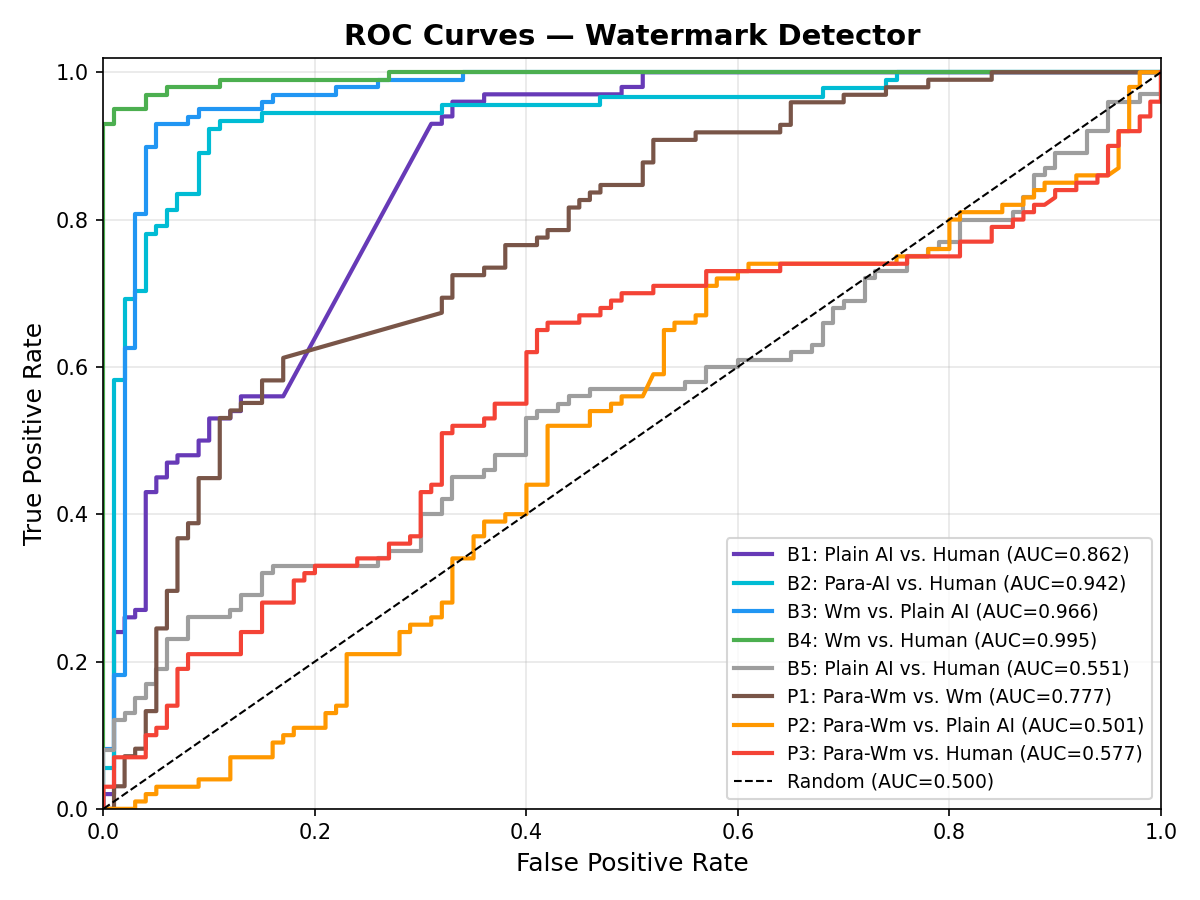
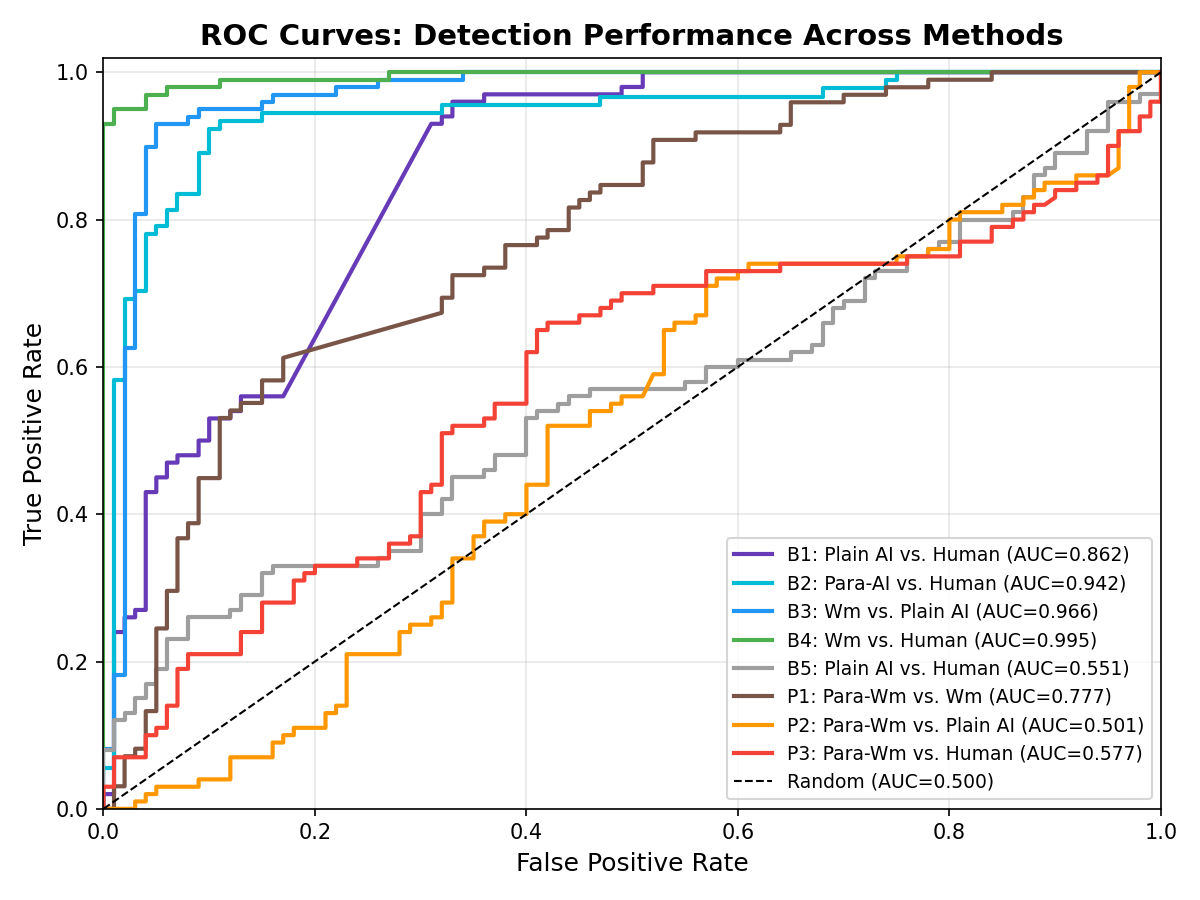
Fix plot titles

Changed region(s): [[0.1542, 0.0, 0.8942, 0.0622]]

diff --git a/generate_plots.py b/generate_plots.py
@@ -14,7 +14,6 @@ from sklearn.metrics import roc_curve, roc_auc_score
 results_dir = "experiment_results"
 plots_dir = "plots"
 
-# Human-readable labels for each experiment file
 EXPERIMENT_LABELS = {
     "baseline_1":     "Baseline 1\nPlain AI vs. Human (AI Detector)",
     "baseline_2":     "Baseline 2\nParaphrased AI vs. Human (AI Detector)",
@@ -37,7 +36,6 @@ SHORT_LABELS = {
     "paraphrasing_3": "P3: Para-Wm vs. Human",
 }
 
-# Colour per experiment — consistent across all plots
 COLORS = {
     "baseline_1":     "#673AB7",
     "baseline_2":     "#00BCD4",
@@ -49,7 +47,6 @@ COLORS = {
     "paraphrasing_3": "#F44336",
 }
 
-# Display order
 ORDER = [
     "baseline_1", "baseline_2", "baseline_3",
     "baseline_4", "baseline_5",
@@ -92,7 +89,10 @@ def plot_roc_curves(data, plots_dir):
     ax.plot([0, 1], [0, 1], "k--", linewidth=1, label="Random (AUC=0.500)")
     ax.set_xlabel("False Positive Rate", fontsize=12)
     ax.set_ylabel("True Positive Rate", fontsize=12)
-    ax.set_title("ROC Curves — Watermark Detector", fontsize=14, fontweight="bold")
+
+    ax.set_title("ROC Curves: Detection Performance Across Methods",
+                 fontsize=14, fontweight="bold")
+
     ax.legend(fontsize=9, loc="lower right")
     ax.set_xlim(0, 1)
     ax.set_ylim(0, 1.02)
@@ -108,6 +108,7 @@ def plot_roc_curves(data, plots_dir):
 def plot_auroc_bar(data, plots_dir):
     keys = [k for k in ORDER if k in data]
     aurocs = []
+
     for key in keys:
         _, _, auroc, _ = compute_metrics(data[key])
         aurocs.append(auroc)
@@ -126,7 +127,10 @@ def plot_auroc_bar(data, plots_dir):
     ax.set_xticklabels([SHORT_LABELS[k] for k in keys], fontsize=8)
     ax.set_ylabel("AUROC", fontsize=12)
     ax.set_ylim(0, 1.12)
-    ax.set_title("AUROC by Experiment — Watermark Detector", fontsize=14, fontweight="bold")
+
+    ax.set_title("AUROC by Experiment (DetectGPT + Watermarking)",
+                 fontsize=14, fontweight="bold")
+
     ax.legend(fontsize=10)
     ax.grid(axis="y", alpha=0.3)
     fig.tight_layout()
@@ -156,20 +160,29 @@ def plot_score_distributions(data, plots_dir):
         scores_pos = y_score[y_true == 1]
 
         bins = np.linspace(y_score.min(), y_score.max(), 40)
-        ax.hist(scores_neg, bins=bins, alpha=0.6, color="#9E9E9E", label="Negative class", density=True)
-        ax.hist(scores_pos, bins=bins, alpha=0.6, color=COLORS[key], label="Positive class", density=True)
+
+        ax.hist(scores_neg, bins=bins, alpha=0.6, color="#9E9E9E",
+                label="Negative class", density=True)
+        ax.hist(scores_pos, bins=bins, alpha=0.6, color=COLORS[key],
+                label="Positive class", density=True)
 
         _, _, auroc, _ = compute_metrics(entry)
-        ax.set_title(f"{SHORT_LABELS[key]}\n(AUC={auroc:.3f})", fontsize=9, fontweight="bold")
-        ax.set_xlabel("Watermark Z-Score", fontsize=9)
+
+        ax.set_title(f"{SHORT_LABELS[key]}\n(AUC={auroc:.3f})",
+                     fontsize=9, fontweight="bold")
+
+        ax.set_xlabel("Detection Score", fontsize=9)
         ax.set_ylabel("Density", fontsize=9)
+
         ax.legend(fontsize=8)
         ax.grid(True, alpha=0.3)
 
     for j in range(len(keys), len(axes)):
         axes[j].set_visible(False)
 
-    fig.suptitle("Score Distributions — Watermark Detector", fontsize=14, fontweight="bold", y=1.01)
+    fig.suptitle("Score Distributions Across Detection Methods",
+                 fontsize=14, fontweight="bold", y=1.01)
+
     fig.tight_layout()
     path = os.path.join(plots_dir, "score_distributions.png")
     fig.savefig(path, dpi=150, bbox_inches="tight")
@@ -181,6 +194,7 @@ def plot_score_distributions(data, plots_dir):
 def plot_fpr_bar(data, plots_dir):
     keys = [k for k in ORDER if k in data]
     fprs = []
+
     for key in keys:
         _, _, _, fpr_at_95 = compute_metrics(data[key])
         fprs.append(fpr_at_95)
@@ -192,14 +206,20 @@ def plot_fpr_bar(data, plots_dir):
 
     for bar, val in zip(bars, fprs):
         ax.text(bar.get_x() + bar.get_width() / 2, bar.get_height() + 0.01,
-                f"{val:.3f}", ha="center", va="bottom", fontsize=10, fontweight="bold")
+                f"{val:.3f}", ha="center", va="bottom",
+                fontsize=10, fontweight="bold")
 
-    ax.axhline(0.05, color="green", linestyle="--", linewidth=1, label="5% FPR target")
+    ax.axhline(0.05, color="green", linestyle="--", linewidth=1,
+               label="5% FPR target")
+
     ax.set_xticks(x)
     ax.set_xticklabels([SHORT_LABELS[k] for k in keys], fontsize=8)
     ax.set_ylabel("FPR @ 95% TPR", fontsize=12)
     ax.set_ylim(0, 1.15)
-    ax.set_title("FPR@95TPR by Experiment — Watermark Detector", fontsize=14, fontweight="bold")
+
+    ax.set_title("FPR@95TPR by Experiment (Lower is Better)",
+                 fontsize=14, fontweight="bold")
+
     ax.legend(fontsize=10)
     ax.grid(axis="y", alpha=0.3)
     fig.tight_layout()
@@ -218,6 +238,10 @@ def main():
         return
 
     print(f"Loaded experiments: {list(data.keys())}\n")
+
+    for name, results in data.items():
+        print(name)
+        print(f'auroc: {results["auroc"]}, fpr_at_95_tpr: {results["fpr_at_95_tpr"]}')
 
     plot_roc_curves(data, plots_dir)
     plot_auroc_bar(data, plots_dir)
